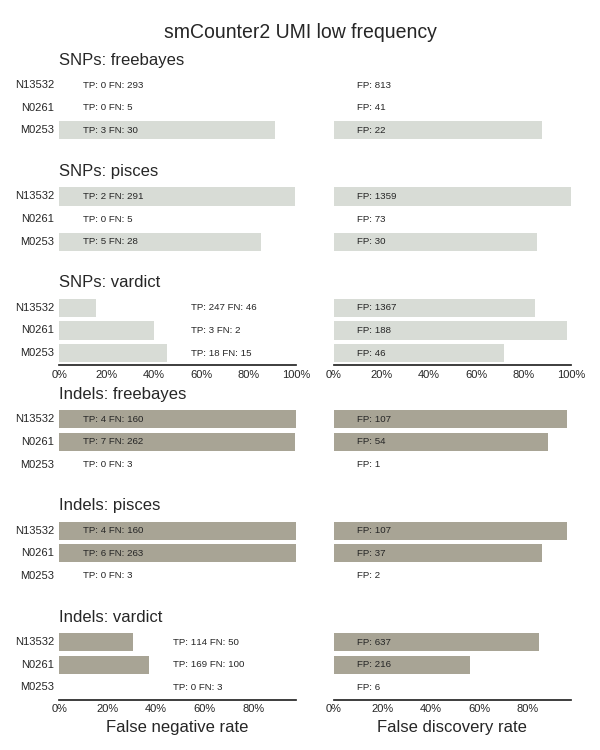
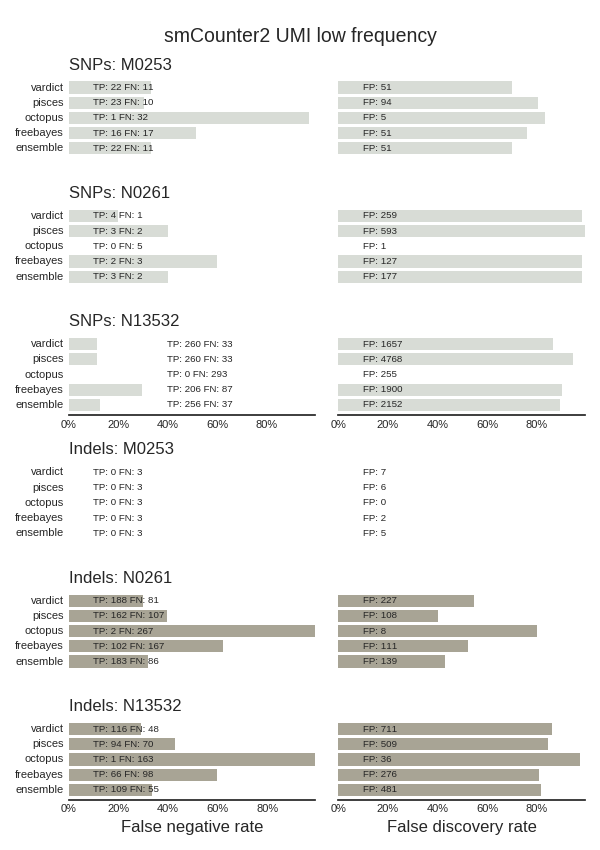
Improve smcounter2 low frequency validation
- Improve Pisces and FreeBayes low frequency detection
- Add ensemble method in validation
- Initial attempt at using Octopus for tumor only calling

diff --git a/somatic-lowfreq/README.md b/somatic-lowfreq/README.md
@@ -45,6 +45,7 @@ Versions:
 - pisces 5.2.7.47
 - vardict-java 1.5.1
 - freebayes 1.1.0.46
+- octopus 0.4.1a
 
 ## Low frequency UMI-tagged tumor only samples
 
@@ -55,18 +56,29 @@ we looked at the ability of callers to pick up primarily ~0.5% variants in
 deeply sequenced, tumor-only samples tagged with UMIs. We called UMI consensus
 reads after mapping with
 [fgbio](http://fulcrumgenomics.github.io/fgbio/tools/latest/) and then used
-consensus reads for calling with multiple callers:
+consensus reads for calling with multiple callers. We include 4 callers and an
+ensemble method that reports variants present in at least 2 callers.
 
 ![smcounter2 samples](smcounter2/grading-summary-combined.png)
 
-We're not effectively calling low frequency variants with FreeBayes and Pisces
-on these samples. We effectively only pick up the low frequency calls with
-VarDict, although this also still have much room for improvement in sensitivity.
+All of the callers have room for improvement in both sensitivity and
+specificity. Using an ensemble method indicates that we're consistently calling
+similar variants, both for true and false positives. Ensemble approaches
+currently don't give us a lot of extra sensitivity and specificity. The callers
+have similar blind spots and extra non-somatic calls, and we'll work to
+categorize those and see how we can improve generally within bcbio for these
+difficult cases.
 
-For FreeBayes and Pisces, we don't see calls at all in the majority of the
-concordant variants identified by VarDict. Both callers use low frequency flags;
-`--mnvf 0.004` for Pisces and `--min-alternate-fraction 0.004` for FreeBayes.
-Here is an example low frequency call picked up by VarDict by not FreeBayes or Pisces:
-```
-1       206650065       rs41296034      A       G       196     PASS    ADJAF=0;AF=0.0057;BIAS=1:1;DP=4756;HIAF=0.0058;HICNT=27;HICOV=4692;LSEQ=GTGCTTCGAAAGCCCCAGCA;MQ=58.8;MSI=5;MSILEN=1;NM=1.2;ODDRATIO=0;PMEAN=25.4;PSTD=1;QSTD=1;QUAL=41.4;REFBIAS=6:4719;RSEQ=AAAGCGTTCGGGGTGACTGT;SAMPLE=N13532;SBF=1;SHIFT3=0;SN=54;TYPE=SNV;VARBIAS=0:27;VD=27;ANN=G|synonymous_variant|LOW|IKBKE|ENSG00000143466|transcript|ENST00000367120|protein_coding|7/22|c.585A>G|p.Gln195Gln|958/3269|585/2151|195/716||,G|synonymous_variant|LOW|IKBKE|ENSG00000143466|transcript|ENST00000537984|protein_coding|6/21|c.330A>G|p.Gln110Gln|792/2487|330/1896|110/631||,G|upstream_gene_variant|MODIFIER|IKBKE|ENSG00000143466|transcript|ENST00000492570|processed_transcript||n.-3344A>G|||||3344|,G|downstream_gene_variant|MODIFIER|IKBKE|ENSG00000143466|transcript|ENST00000463979|processed_transcript||n.*1594A>G|||||1594|  GT:DP:VD:AD:AF:RD:ALD   0/1:4756:27:4725,27:0.0057:6,4719:0,27
-```
+Pisces required [parameter adjustments](https://github.com/bcbio/bcbio-nextgen/commit/49d0cbb1f6dcbea629c63749e2f9813bd06dcee3) for detection at <1% frequency, thanks to [helpful suggestions from Tamsen Dunn](https://github.com/Illumina/Pisces/issues/14#issuecomment-399756862).
+
+FreeBayes also required changes to call somatic variants at this low frequency.
+We needed to [call with high ploidy](https://github.com/ekg/freebayes/issues/272#issuecomment-210982788),
+[control memory usage by limiting alleles examming](https://github.com/ekg/freebayes/issues/465)
+and then resolve the high ploidy calls back to a diploid representation.
+
+For Octopus we sill need to do additional tweaking for low frequency tumor only calling.
+For example: N13532 has 0.5% with 293 SNPs and 164 indels. Octopus only calls 1
+passing indel but does have 40 additional calls that are filtered, primarily
+because of the FRF filter, which measures the number of reads removed for
+calling. So we'd need to tweak in terms of both detecting and sensitivity and
+will follow up and work to improve.
